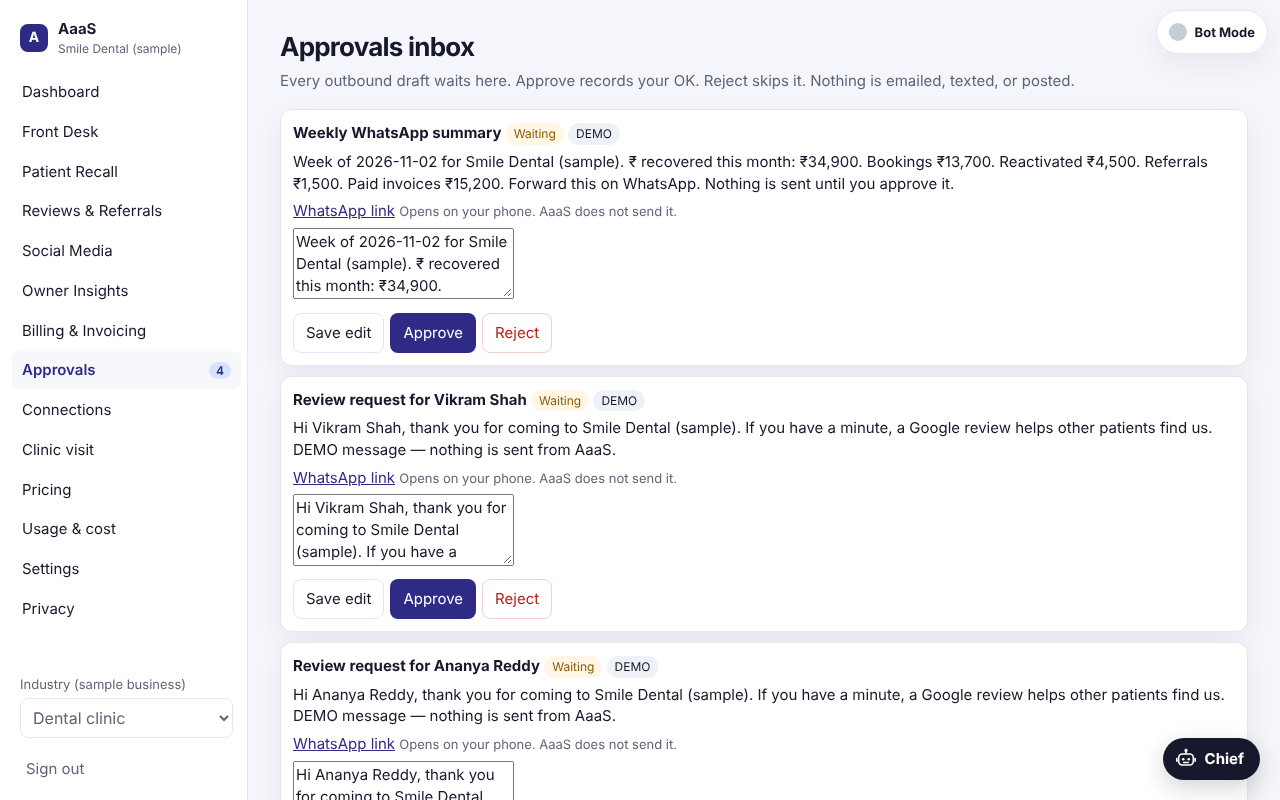
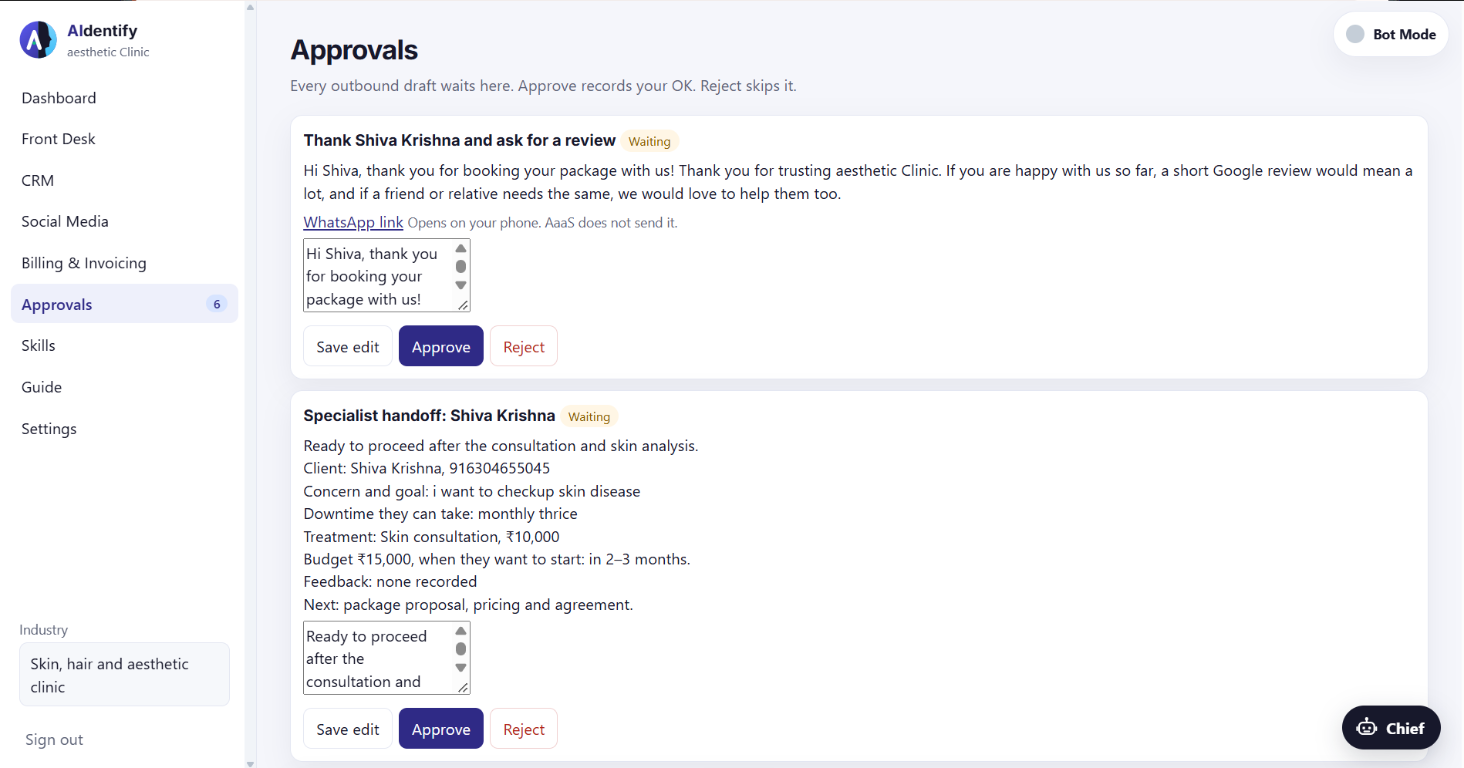
AIdentify landingpage updated

diff --git a/home.html b/home.html
@@ -73,7 +73,7 @@ try{const t=localStorage.getItem('as_theme');if(t==='light'||t==='dark')document
       </div>
       <figure class="shot">
         <figcaption><span>Workspace · Chief</span><span>Sample clinic</span></figcaption>
-        <img src="/assets/landing/chief.png" width="1280" height="800" alt="Chief chat open over the home screen of the sample dental clinic, with suggested questions and drafts waiting for approval.">
+        <img src="/assets/landing/dashboard-reference.png" width="1484" height="768" alt="AIdentify clinic dashboard showing the daily overview, business activity, schedule and Chief assistant.">
       </figure>
     </section>
   </div>
@@ -137,21 +137,21 @@ try{const t=localStorage.getItem('as_theme');if(t==='light'||t==='dark')document
         </div>
         <div class="setup-gallery" role="group" aria-roledescription="carousel" aria-label="Onboarding screenshots">
           <figure class="setup-shot">
-            <img class="setup-slide-image" src="/assets/landing/onboarding-user-step-1.webp" width="1200" height="548" alt="Step 1 of 7: choose the business industry.">
+            <img class="setup-slide-image" src="/assets/landing/onboarding-carousel-step-1.png" width="1471" height="768" alt="Step 1 of 7: choose the business type, with skin, hair and aesthetic clinic selected.">
             <figcaption class="setup-slide-caption" aria-live="polite" aria-atomic="true"><span>Step 1 of 7</span><b>Choose your industry</b></figcaption>
           </figure>
           <div class="setup-controls">
             <button class="setup-arrow" type="button" data-setup-prev aria-label="Previous onboarding step"><span aria-hidden="true">‹</span></button>
             <div class="setup-steps" aria-label="Choose an onboarding step">
-              <button type="button" data-setup-step data-src="/assets/landing/onboarding-user-step-1.webp" data-width="1200" data-height="548" data-alt="Step 1 of 7: choose the business industry." data-caption="Step 1 of 7" data-title="Choose your industry" aria-label="Show step 1: Choose your industry" aria-current="step">1</button>
-              <button type="button" data-setup-step data-src="/assets/landing/onboarding-user-step-2.webp" data-width="1200" data-height="540" data-alt="Step 2 of 7: enter business details and see a live team preview." data-caption="Step 2 of 7" data-title="Business details" aria-label="Show step 2: Business details">2</button>
-              <button type="button" data-setup-step data-src="/assets/landing/onboarding-user-step-3.webp" data-width="1200" data-height="556" data-alt="Step 3 of 7: select the business city." data-caption="Step 3 of 7" data-title="Business location" aria-label="Show step 3: Business location">3</button>
-              <button type="button" data-setup-step data-src="/assets/landing/onboarding-user-step-4.webp" data-width="1200" data-height="553" data-alt="Step 4 of 7: add the services the business offers." data-caption="Step 4 of 7" data-title="Services" aria-label="Show step 4: Services">4</button>
-              <button type="button" data-setup-step data-src="/assets/landing/onboarding-user-step-5.webp" data-width="1200" data-height="551" data-alt="Step 5 of 7: choose the customer groups to reach." data-caption="Step 5 of 7" data-title="Customers to reach" aria-label="Show step 5: Customers to reach">5</button>
-              <button type="button" data-setup-step data-src="/assets/landing/onboarding-user-step-6.webp" data-width="1200" data-height="563" data-alt="Step 6 of 7: connect an AI provider and enter an API key, or skip for now." data-caption="Step 6 of 7" data-title="Connect your AI" aria-label="Show step 6: Connect your AI">6</button>
-              <button type="button" data-setup-step data-src="/assets/landing/onboarding-user-step-7.webp" data-width="1200" data-height="551" data-alt="Step 7 of 7: review the business details and create the team." data-caption="Step 7 of 7" data-title="Review and create" aria-label="Show step 7: Review and create">7</button>
+              <button type="button" data-setup-step data-src="/assets/landing/onboarding-carousel-step-1.png" data-width="1471" data-height="768" data-alt="Step 1 of 7: choose the business type, with skin, hair and aesthetic clinic selected." data-caption="Step 1 of 7" data-title="Choose your industry" aria-label="Show step 1: Choose your industry" aria-current="step">1</button>
+              <button type="button" data-setup-step data-src="/assets/landing/onboarding-carousel-step-2.png" data-width="1477" data-height="768" data-alt="Step 2 of 7: enter the clinic name and see a live team preview." data-caption="Step 2 of 7" data-title="Business details" aria-label="Show step 2: Business details">2</button>
+              <button type="button" data-setup-step data-src="/assets/landing/onboarding-carousel-step-3.png" data-width="1497" data-height="768" data-alt="Step 3 of 7: select the clinic's service locations." data-caption="Step 3 of 7" data-title="Business location" aria-label="Show step 3: Business location">3</button>
+              <button type="button" data-setup-step data-src="/assets/landing/onboarding-carousel-step-4.png" data-width="1474" data-height="768" data-alt="Step 4 of 7: add clinic services and introductory offers." data-caption="Step 4 of 7" data-title="Services" aria-label="Show step 4: Services">4</button>
+              <button type="button" data-setup-step data-src="/assets/landing/onboarding-carousel-step-5.png" data-width="1502" data-height="768" data-alt="Step 5 of 7: choose the customer groups the clinic wants to reach." data-caption="Step 5 of 7" data-title="Customers to reach" aria-label="Show step 5: Customers to reach">5</button>
+              <button type="button" data-setup-step data-src="/assets/landing/onboarding-carousel-step-6.png" data-width="1505" data-height="768" data-alt="Step 6 of 7: connect an AI provider and enter an API key, or skip for now." data-caption="Step 6 of 7" data-title="Connect your AI" aria-label="Show step 6: Connect your AI">6</button>
+              <button type="button" data-setup-step data-src="/assets/landing/onboarding-carousel-step-7.png" data-width="1480" data-height="768" data-alt="Step 7 of 7: review the clinic details and team before creating it." data-caption="Step 7 of 7" data-title="Review and create" aria-label="Show step 7: Review and create">7</button>
               <button type="button" data-setup-step data-src="/assets/landing/onboarding-user-ready.webp" data-width="1200" data-height="545" data-alt="Team creation progress screen showing the AI teammates being set up." data-caption="Step 8" data-title="Setting up your team" aria-label="Show step 8: Setting up your team">8</button>
-              <button type="button" data-setup-step data-src="/assets/landing/onboarding-ready-cropped.webp" data-width="1200" data-height="527" data-alt="Your team is ready, with all six AI teammates set up." data-caption="Complete" data-title="Your team is ready" aria-label="Show completed setup: Your team is ready">✓</button>
+              <button type="button" data-setup-step data-src="/assets/landing/onboarding-carousel-ready.png" data-width="1486" data-height="768" data-alt="Your team is ready, with the AI teammates set up and ready for work." data-caption="Complete" data-title="Your team is ready" aria-label="Show completed setup: Your team is ready">✓</button>
             </div>
             <button class="setup-arrow" type="button" data-setup-next aria-label="Next onboarding step"><span aria-hidden="true">›</span></button>
           </div>
@@ -230,8 +230,8 @@ try{const t=localStorage.getItem('as_theme');if(t==='light'||t==='dark')document
           <p class="dek">Ask about your business records, enquiries, pending tasks and payments. Chief can answer based on the information in your workspace.</p>
         </div>
         <figure class="shot">
-          <figcaption><span>Home</span><span>Sample clinic</span></figcaption>
-          <img src="/assets/landing/dashboard.png" width="1280" height="800" alt="Home dashboard for Smile Dental, a sample dental clinic, with money recovered, open enquiries, drafts that need approval, payments due and revenue." loading="lazy">
+          <figcaption><span>Dashboard</span><span>Aesthetic clinic</span></figcaption>
+          <img src="/assets/landing/dashboard.png" width="1481" height="768" alt="Aesthetic clinic dashboard showing monthly revenue, payments due, today's appointments, open enquiries, lead pipeline and schedule." loading="lazy">
         </figure>
       </div>
       <div class="feature reverse">
@@ -240,8 +240,8 @@ try{const t=localStorage.getItem('as_theme');if(t==='light'||t==='dark')document
           <p class="dek">Keep contacts, enquiries, visits, tags and activity timelines together. Import or export CSV files.</p>
         </div>
         <figure class="shot">
-          <figcaption><span>Front Desk</span><span>Enquiries</span></figcaption>
-          <img src="/assets/landing/crm.png" width="1280" height="800" alt="Front Desk screen of the sample clinic listing enquiries and contacts." loading="lazy">
+          <figcaption><span>CRM</span><span>Aesthetic clinic</span></figcaption>
+          <img src="/assets/landing/crm.png" width="1486" height="768" alt="Aesthetic clinic CRM showing client and lead records with contact details, source and recent activity." loading="lazy">
         </figure>
       </div>
       <div class="feature">
@@ -250,8 +250,8 @@ try{const t=localStorage.getItem('as_theme');if(t==='light'||t==='dark')document
           <p class="dek">Review, edit, approve or reject outgoing drafts in one place. Nothing is sent until you approve it and connect a channel.</p>
         </div>
         <figure class="shot">
-          <figcaption><span>Approvals</span><span>Drafts waiting</span></figcaption>
-          <img src="/assets/landing/approvals.png" width="1280" height="800" alt="Approvals inbox with a weekly summary and review requests, each with Approve and Edit." loading="lazy">
+          <figcaption><span>Approvals</span><span>Aesthetic clinic</span></figcaption>
+          <img src="/assets/landing/approvals.png" width="1464" height="768" alt="Aesthetic clinic approvals screen showing a review request with a message draft, WhatsApp link, and Save edit, Approve, and Reject controls." loading="lazy">
         </figure>
       </div>
       <div class="grid g3">
